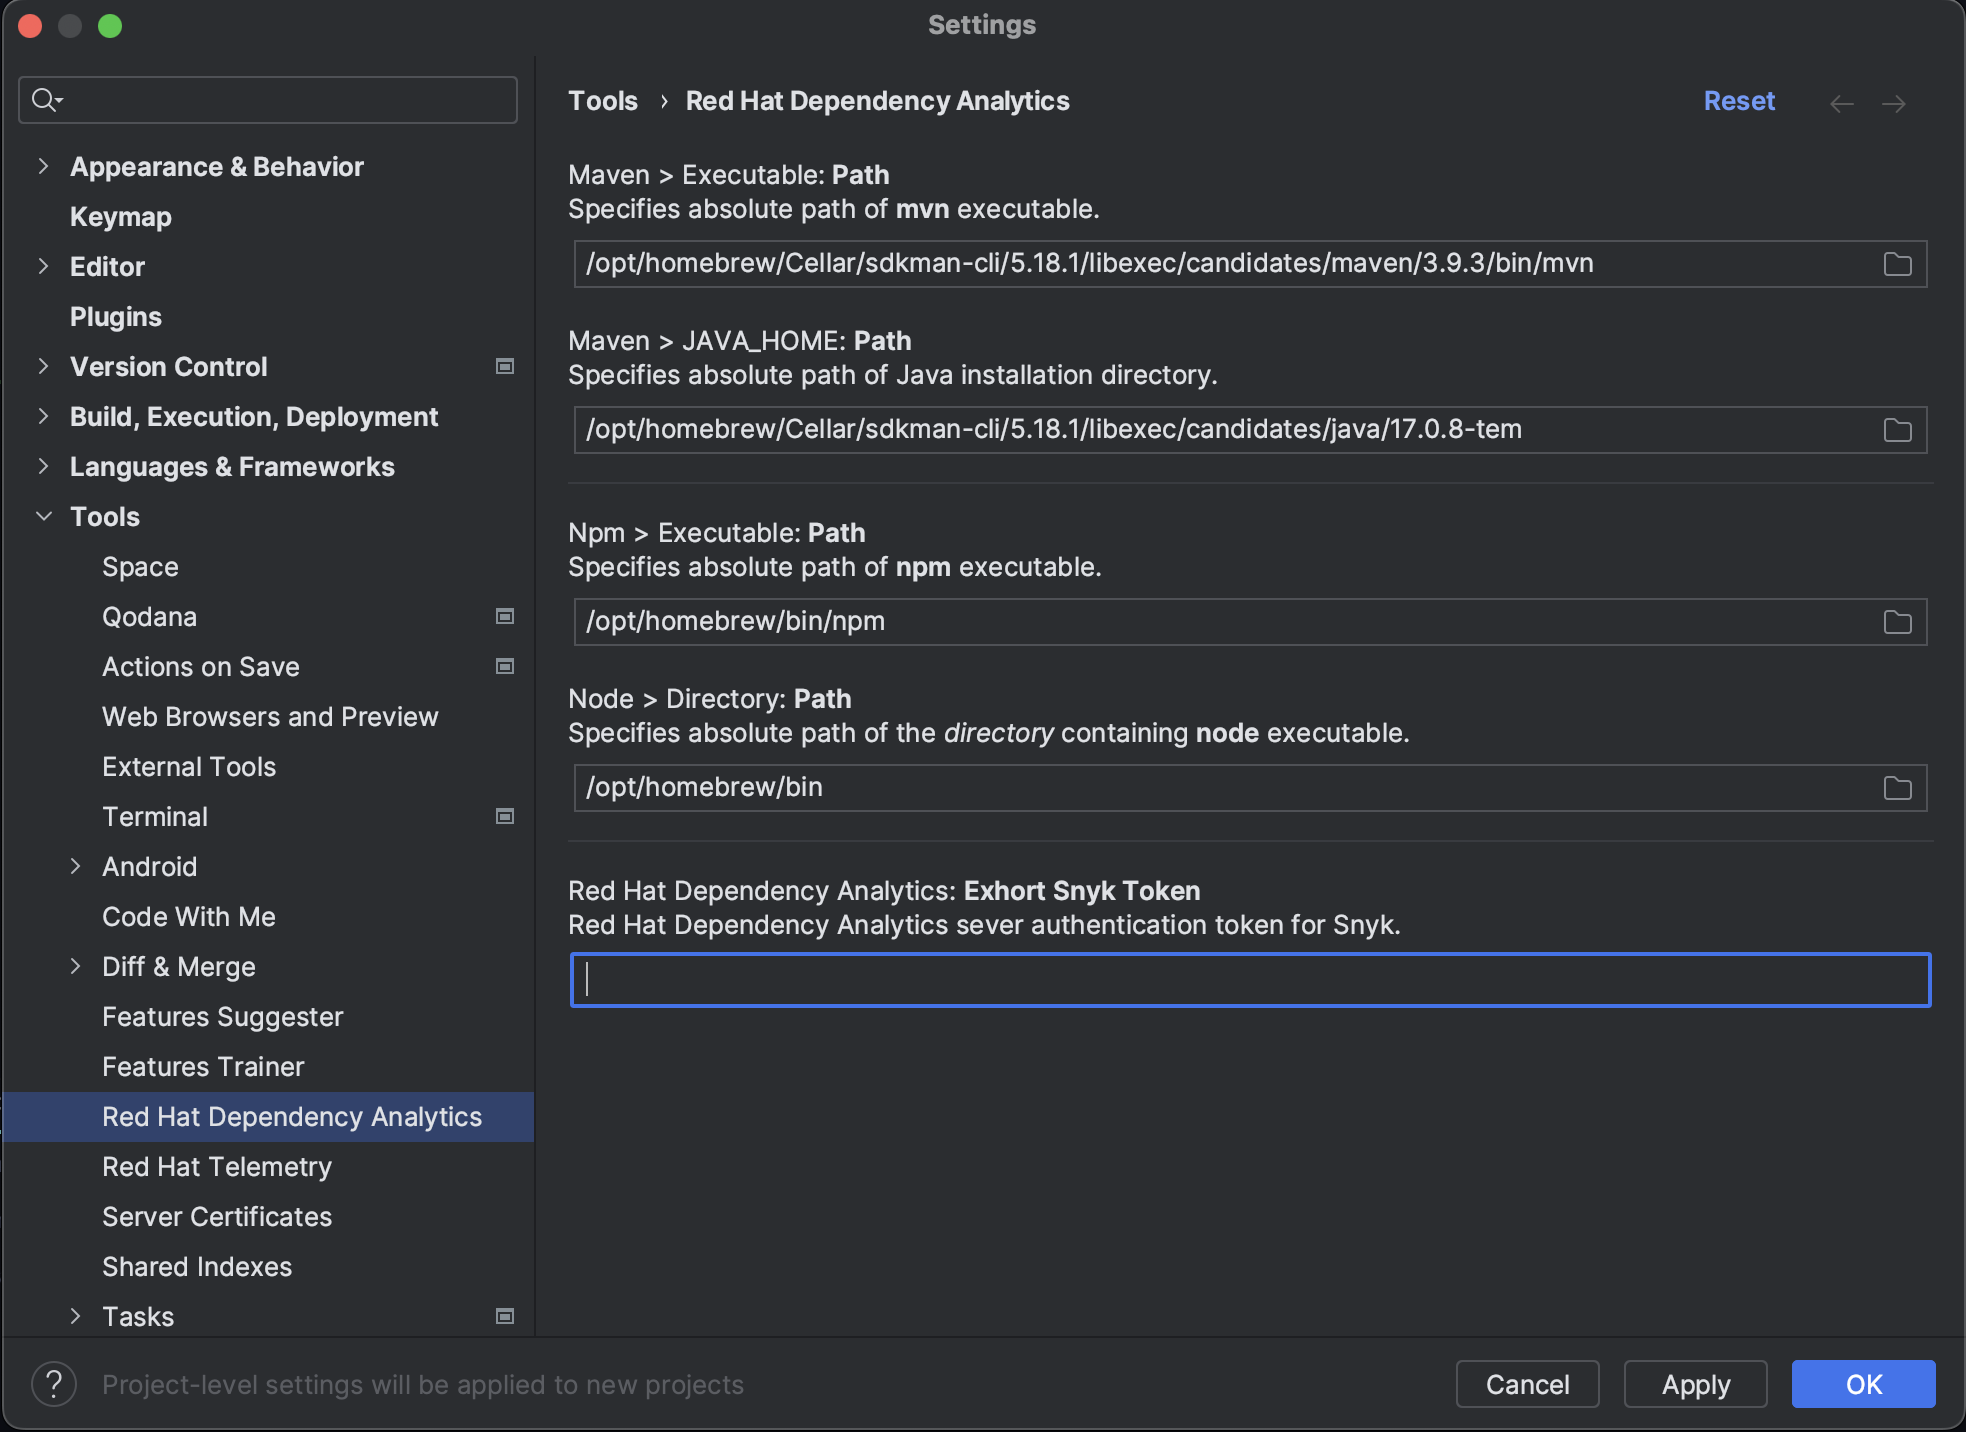
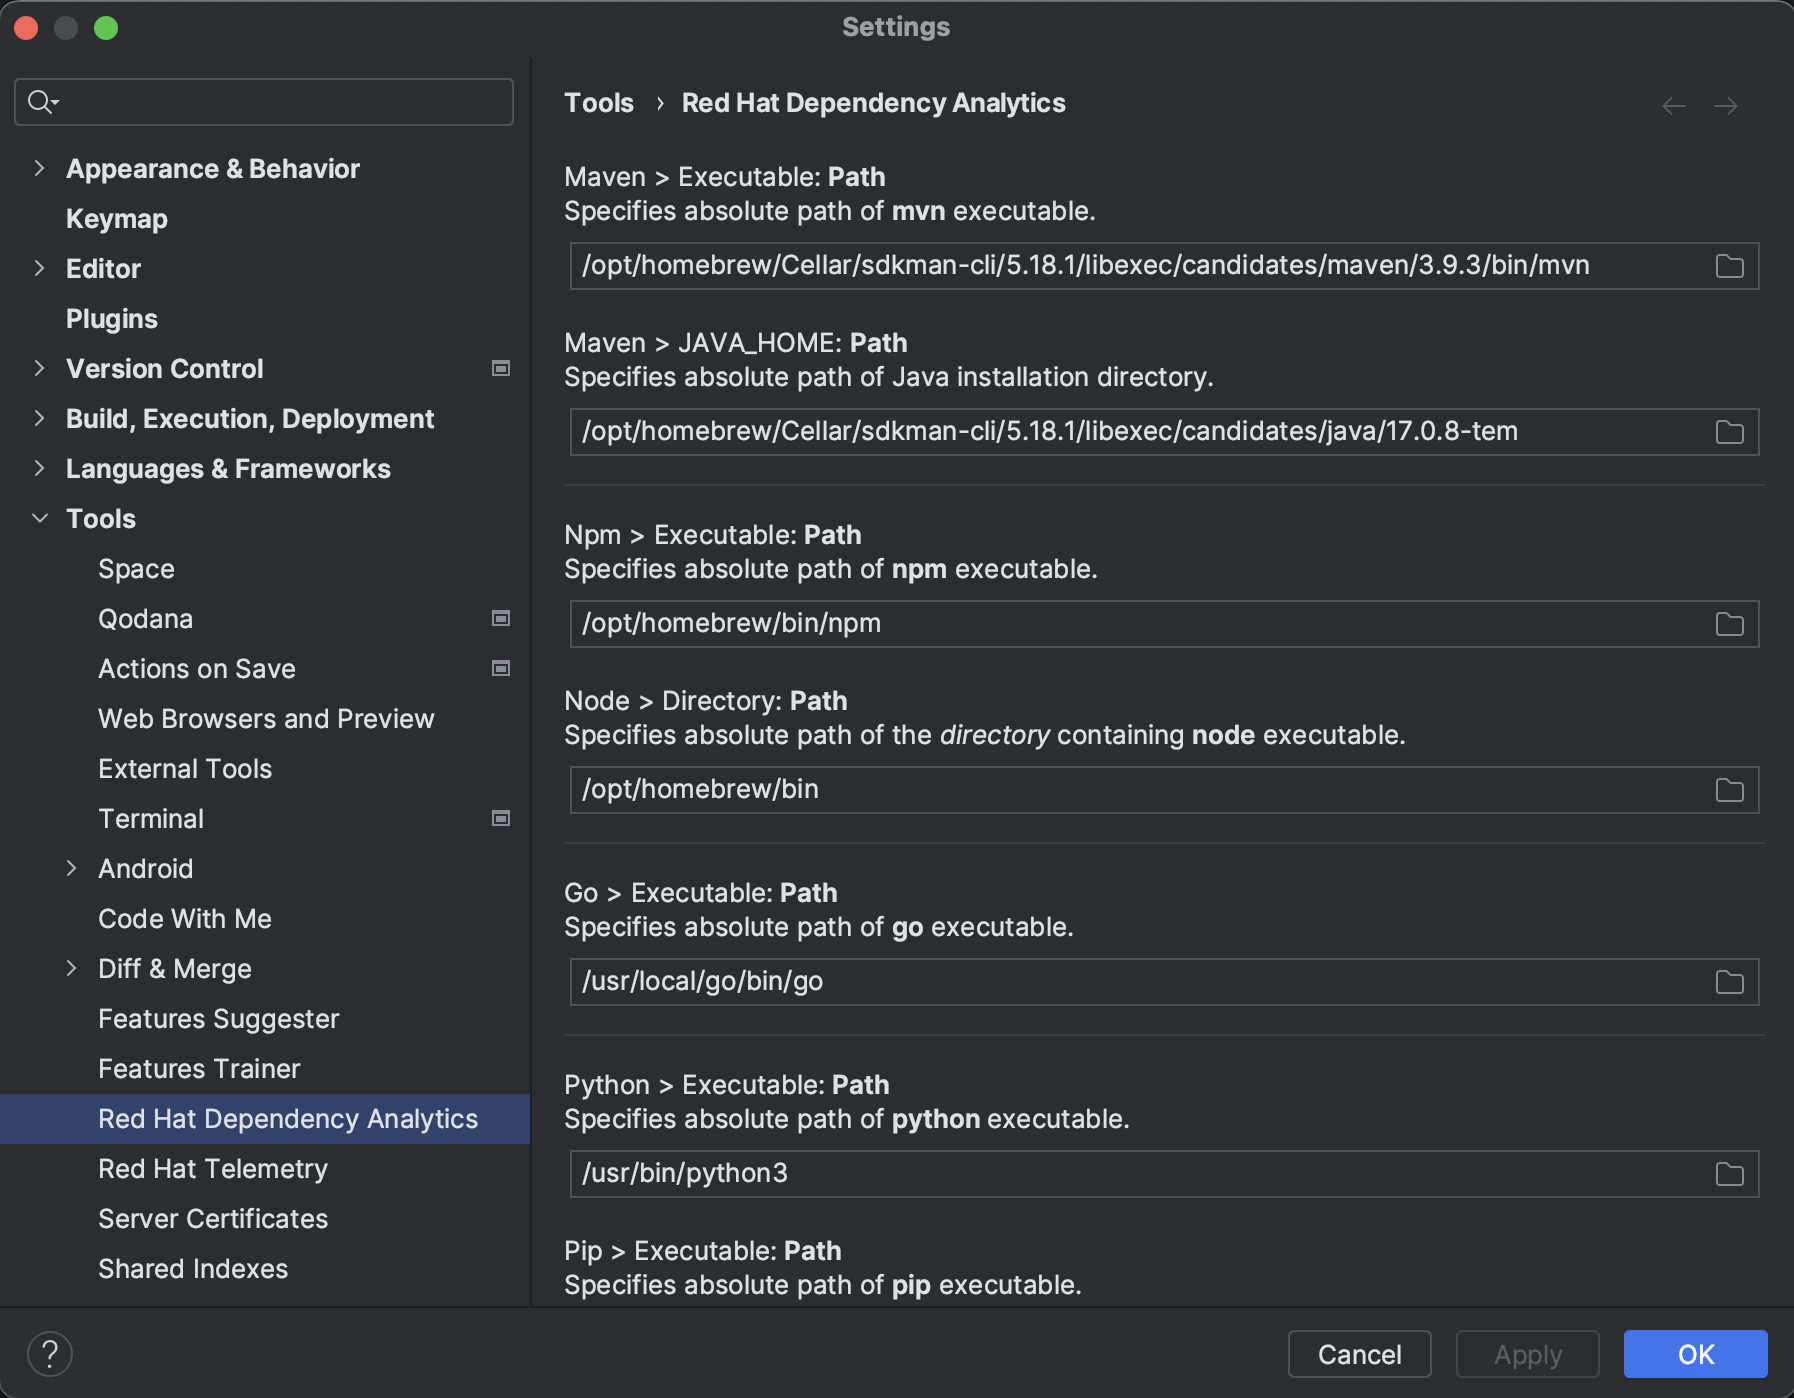
chore: update docs

diff --git a/README.md b/README.md
@@ -24,7 +24,8 @@ Dependency Analytics only accesses your manifest files to analyze your applicati
 vulnerability report.
 
 **IMPORTANT:**
-<br >Currently, Dependency Analytics only supports projects that use Maven (`mvn`), and Node ecosystems (`npm`).
+<br >Currently, Dependency Analytics only supports projects that use Maven (`mvn`), Node (`npm`), Golang (`go mod`) and
+Python (`pip`) ecosystems.
 In future releases, Red Hat plans to support other programming languages.
 
 ##### Table of Contents
@@ -42,7 +43,11 @@ In future releases, Red Hat plans to support other programming languages.
 **Prerequisites**
 
 - For Maven projects, analyzing a `pom.xml` file, you must have the `mvn` binary in your IDE's `PATH` environment.
-- For Node projects, analyzing a `package.json` file, you must have the `npm` binary in your IDE's `PATH` environment.
+- For Node projects, analyzing a `package.json` file, you must have the `npm` and `node` binaries in your IDE's `PATH`
+  environment.
+- For Golang projects, analyzing a `go.mod` file, you must have the `go` binary in your IDE's `PATH` environment.
+- For Python projects, analyzing a `requirements.txt` file, you must have the `python3` and `pip3` binaries in your
+  IDE's `PATH` environment.
 
 **Procedure**
 
@@ -80,15 +85,27 @@ according to your preferences.
 **Configurable parameters**
 
 - **Maven** :
-<br >Path of the `mvn` executable allows Exhort to locate and execute the `mvn` commands to resolve dependencies for
+<br >Path of the `mvn` executable allows Exhort to locate and execute the `mvn` command to resolve dependencies for
 Maven projects.
 Path of the `JAVA_HOME` directory is required by the `mvn` executable.
 If the paths are not provided, your IDE's `PATH` and `JAVA_HONE` environments will be used to locate the executables.
 
 - **Npm** :
-<br >Path of the `npm` executable allows Exhort to locate and execute `npm` commands to resolve dependencies for Node
+<br >Path of the `npm` executable allows Exhort to locate and execute the `npm` command to resolve dependencies for Node
 projects.
 Path of the directory containing the `node` executable is required by the `npm` executable.
+If the paths are not provided, your IDE's `PATH` environment will be used to locate the executables.
+
+- **Golang** :
+<br >Path of the `go` executable allows Exhort to locate and execute the `go` command to resolve dependencies for Go
+projects.
+If the path is not provided, your IDE's `PATH` environment will be used to locate the executable.
+
+- **Python** :
+<br >Paths of the `python3` and `pip3` executables allow Exhort to locate and execute the `pip3` commands to resolve
+dependencies for Python projects.
+Python 2 executables `python` and `pip` can be used instead, if the `Use python 2.x` option is selected.
+Python virtual environment can be applied, if the `Use python virtual environment` option is selected.
 If the paths are not provided, your IDE's `PATH` environment will be used to locate the executables.
 
 - **Exhort Snyk Token** :
@@ -101,7 +118,8 @@ token [here](https://app.snyk.io/login?utm_campaign=Code-Ready-Analytics-2020&ut
 ## Features
 
 - **Component analysis**
-  <br >Upon opening a manifest file, such as a `pom.xml` or `package.json` file, a scan starts the analysis process.
+  <br >Upon opening a manifest file, such as a `pom.xml`, `package.json`, `go.mod` or `requirements.txt` file, a scan
+  starts the analysis process.
   The scan provides immediate inline feedback on detected security vulnerabilities for your application's dependencies.
   Such dependencies are appropriately underlined in red, and hovering over it gives you a short summary of the security
   concern.
@@ -151,11 +169,26 @@ token [here](https://app.snyk.io/login?utm_campaign=Code-Ready-Analytics-2020&ut
   }
   ```
 
+  If you wish to ignore vulnerabilities for a dependency in a `go.mod` file, you must add `exhortignore` as a comment
+  against the dependency in the manifest file.
+  For example:
+  ```
+  require (
+      golang.org/x/sys v1.6.7 // exhortignore
+  )
+  ```
+
+  If you wish to ignore vulnerabilities for a dependency in a `requirements.txt` file, you must add `exhortignore` as a
+  comment against the dependency in the manifest file.
+  For example:
+  ```
+  requests==2.28.1 # exhortignore
+  ```
+
 - **Excluding developmental or test dependencies**
   <br >Red Hat Dependency Analytics does not analyze dependencies marked as `dev` or `test`, these dependencies are
   ignored.
   For example, setting `test` in the `scope` tag within a `pom.xml` file:
-
   ```xml
   <dependency>
       <groupId>...</groupId>
@@ -163,10 +196,9 @@ token [here](https://app.snyk.io/login?utm_campaign=Code-Ready-Analytics-2020&ut
       <version>...</version>
       <scope>test</scope>
   </dependency>
-  ```	
+  ```
 
   For example, setting `devDependencies` attributte in the `package.json` file:
-  
   ```json
   {
       "name": "sample",
@@ -187,6 +219,18 @@ token [here](https://app.snyk.io/login?utm_campaign=Code-Ready-Analytics-2020&ut
       }
   }
   ```
+
+  For example, setting `exclude` attribute in the `go.mod` file:
+  ```
+  exclude golang.org/x/sys v1.6.7
+
+  exclude (
+      golang.org/x/sys v1.6.7
+  )
+  ```
+
+  For example, creating an alternative file to `requirements.txt`, like `requirements-dev.txt`
+  or `requirements-test.txt` and adding the dev or test dependencies there instead.
 
 - **Red Hat Dependency Analytics report**
   <br >The Red Hat Dependency Analytics report is a temporary HTML file that exist if the **Red Hat Dependency Analytics
